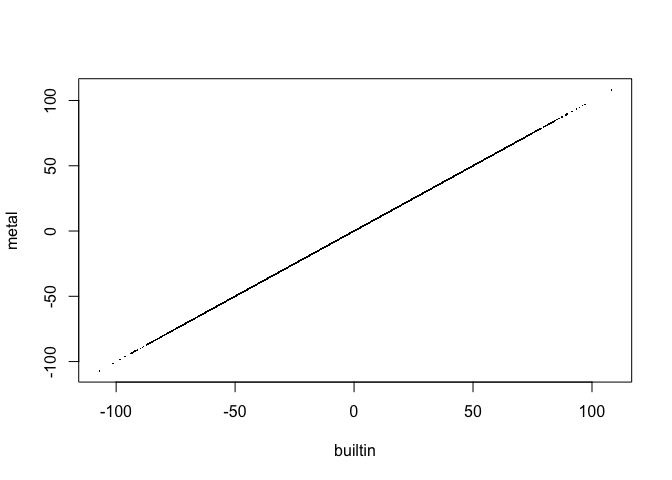
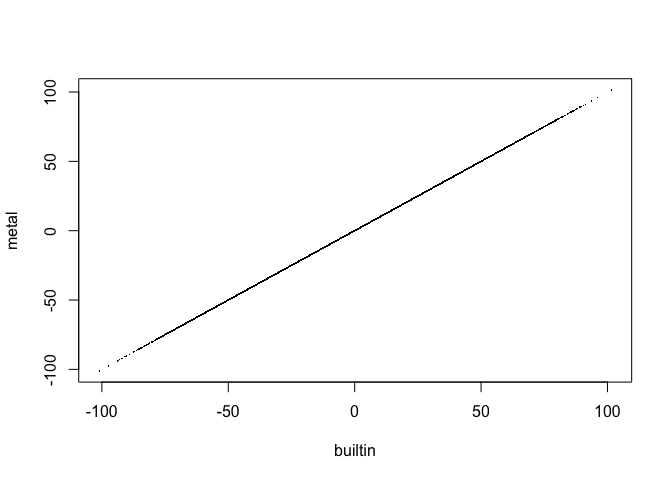
general housekeeping

diff --git a/src/R_init_ardea.c b/src/R_init_ardea.c
@@ -46,8 +46,7 @@ SEXP cuda_kernel = NULL;
  * DL_FUNC == type cast; cast the function pointer to R's expected type
  * ## == Token Pasting == Joins two tokens == x##y gives xy
  * 
- * ACFmetal currently does not use .C, but if it ever needs to just
- * uncomment that line
+ * We currently don't use .C, but the definition is there just in case
  * ========================================================================= */
 
 // Define .Call definition for simpler formatting

diff --git a/README.md b/README.md
@@ -1,10 +1,11 @@
-ardea 0.0.6
+ardea 0.0.8
 ================
 Nicholas Cooley
-2026-09-17
+2026-09-18
 
 - [Introduction](#introduction)
-- [Installation](#installation)
+  - [Installation](#installation)
+- [Installation Details](#installation-details)
   - [OpenCL](#opencl)
   - [Metal](#metal)
   - [CUDA](#cuda)
@@ -24,6 +25,26 @@ maturing](https://img.shields.io/badge/lifecycle-maturing-orange.svg)](https://l
 stable. It has only been thoroughly tested on a Mac M4, and a linux
 server running an NVIDIA A30.*
 
+## Installation
+
+Once this package is on CRAN, that should be the preferred installation
+source, until then it can be installed from this repo via `pak`:
+
+``` r
+if (requireNamespace("pak", quietly = TRUE)) {
+  pak::pkg_install("npcooley/ardea")
+}
+```
+
+Or by cloning the repo and installing directly:
+
+``` sh
+# requires git
+git clone https://github.com/npcooley/ardea.git
+# requires a working R installation
+R CMD install --no-build-vignettes ardea
+```
+
 This package is an attempt at building out infrastructure for users to
 dispatch code directly to GPU devices in R. It is currently designed to
 work wherever R works. During installation, it probes the system for the
@@ -35,7 +56,7 @@ frameworks is successfully detected.
 Because I do not have a Windows development environment, Windows is not
 currently supported.
 
-# Installation
+# Installation Details
 
 `ardea` goes through a fair amount of gymnastics to detect capabilities
 and manage installation. A series of `ARDEA_<FRAMEWORK>_<KEYWORD>`
@@ -286,7 +307,8 @@ calling on system/vendor-specific compilers to build their
 libraries/modules (i.e. `clang` and `nvcc` respectively).
 
 ``` r
-if (opencl_is_available()) {
+if (opencl_is_available() &
+    opencl_devices_exist()) {
   print("OpenCL is available on this system!")
   cl_dvcs <- opencl_device_information()
   cl_ctx <- opencl_make_context(device = cl_dvcs[[1]])
@@ -295,7 +317,8 @@ if (opencl_is_available()) {
   cl_knl <- opencl_make_kernelptr(program = cl_program,
                                   kernel_names = "opencl_mm_naive")
 }
-if (cuda_is_available()) {
+if (cuda_is_available() &
+    cuda_devices_exist()) {
   print("CUDA is available on this system!")
   cu_dvcs <- cuda_device_information()
   cu_ctx <- cuda_make_context(device = cu_dvcs[[1]])
@@ -306,7 +329,8 @@ if (cuda_is_available()) {
                                 context = cu_ctx,
                                 kernel_names = "cuda_mm_naive")
 }
-if (metal_is_available()) {
+if (metal_is_available() &
+    metal_devices_exist()) {
   print("Metal is available on this system!")
   mtl_dvcs <- metal_device_information()
   mtl_ctx <- metal_make_context(device = mtl_dvcs[[1]])
@@ -331,7 +355,8 @@ judgements.
 # our builtin optimized CPU implementation
 print("Builtin implementation:")
 system.time(res01 <- var01 %*% var02)
-if (opencl_is_available()) {
+if (opencl_is_available() &
+    opencl_devices_exist()) {
   print("OpenCL implementation:")
   print(system.time(res02 <- simple_wrapper(framework = "opencl",
                                             context_ptr = cl_ctx,
@@ -354,7 +379,8 @@ if (opencl_is_available()) {
 ![](README_files/figure-gfm/execute_dispatch-1.png)<!-- -->
 
 ``` r
-if (cuda_is_available()) {
+if (cuda_is_available() &
+    cuda_devices_exist()) {
   print("CUDA implementation:")
   print(system.time(res03 <- simple_wrapper(framework = "cuda",
                                             context_ptr = cu_ctx,
@@ -372,7 +398,8 @@ if (cuda_is_available()) {
        xlab = "builtin",
        ylab = "CUDA")
 }
-if (metal_is_available()) {
+if (metal_is_available() &
+    metal_devices_exist()) {
   print("Metal implementation:")
   print(system.time(res03 <- simple_wrapper(framework = "metal",
                                             context_ptr = mtl_ctx,
@@ -396,13 +423,13 @@ if (metal_is_available()) {
 
     ## [1] "Builtin implementation:"
     ##    user  system elapsed 
-    ##   0.030   0.000   0.031 
+    ##   0.031   0.001   0.031 
     ## [1] "OpenCL implementation:"
     ##    user  system elapsed 
     ##   0.002   0.002   0.016 
     ## [1] "Metal implementation:"
     ##    user  system elapsed 
-    ##   0.001   0.001   0.004
+    ##   0.001   0.000   0.006
 
 This is currently the limit of `ardea`’s functionality. This package
 began mostly as a curiousity project with Metal, and turning it into a
